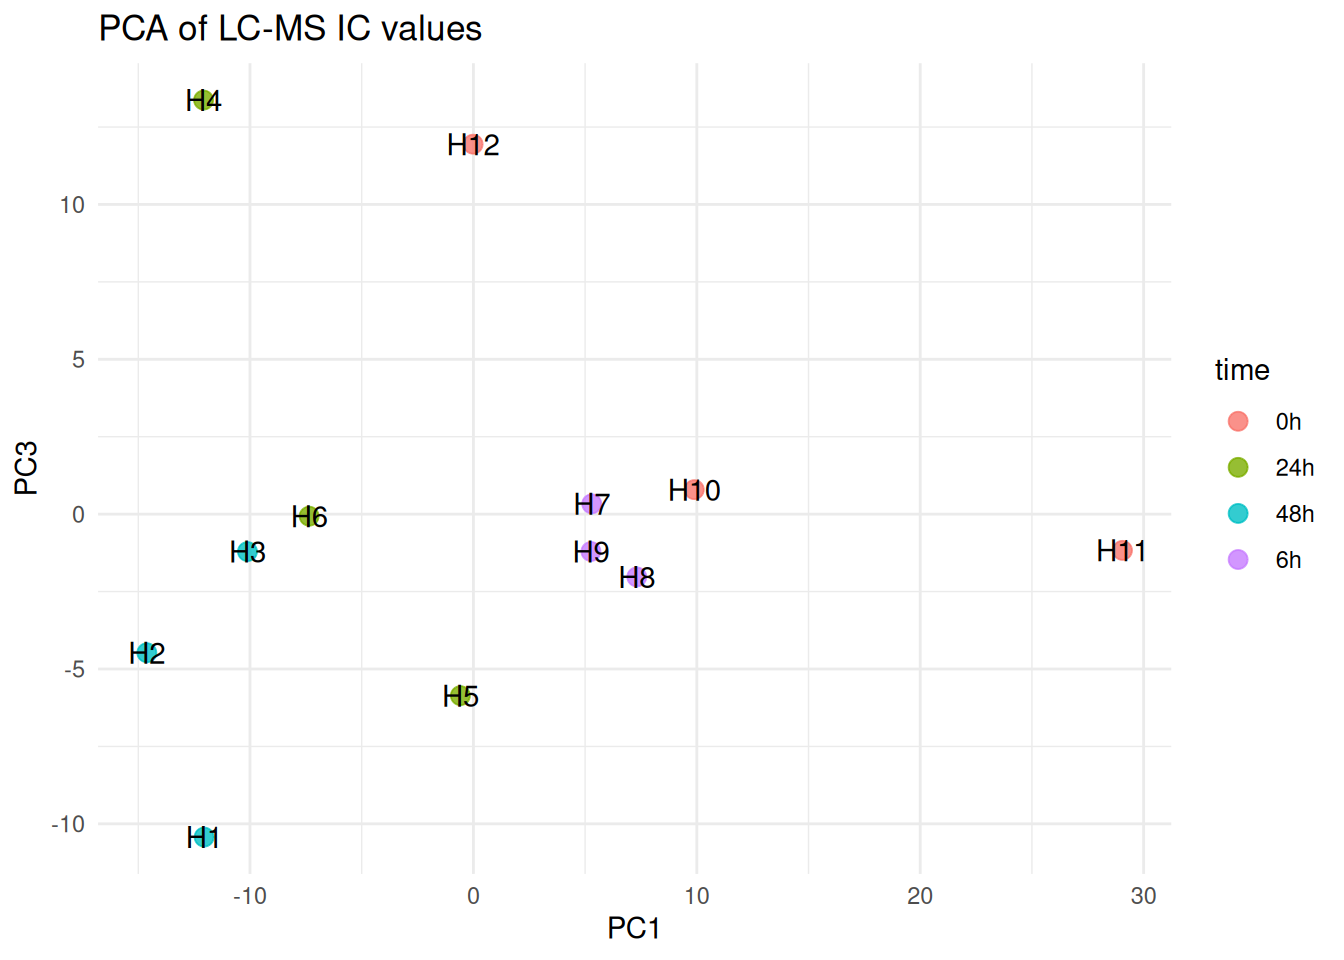
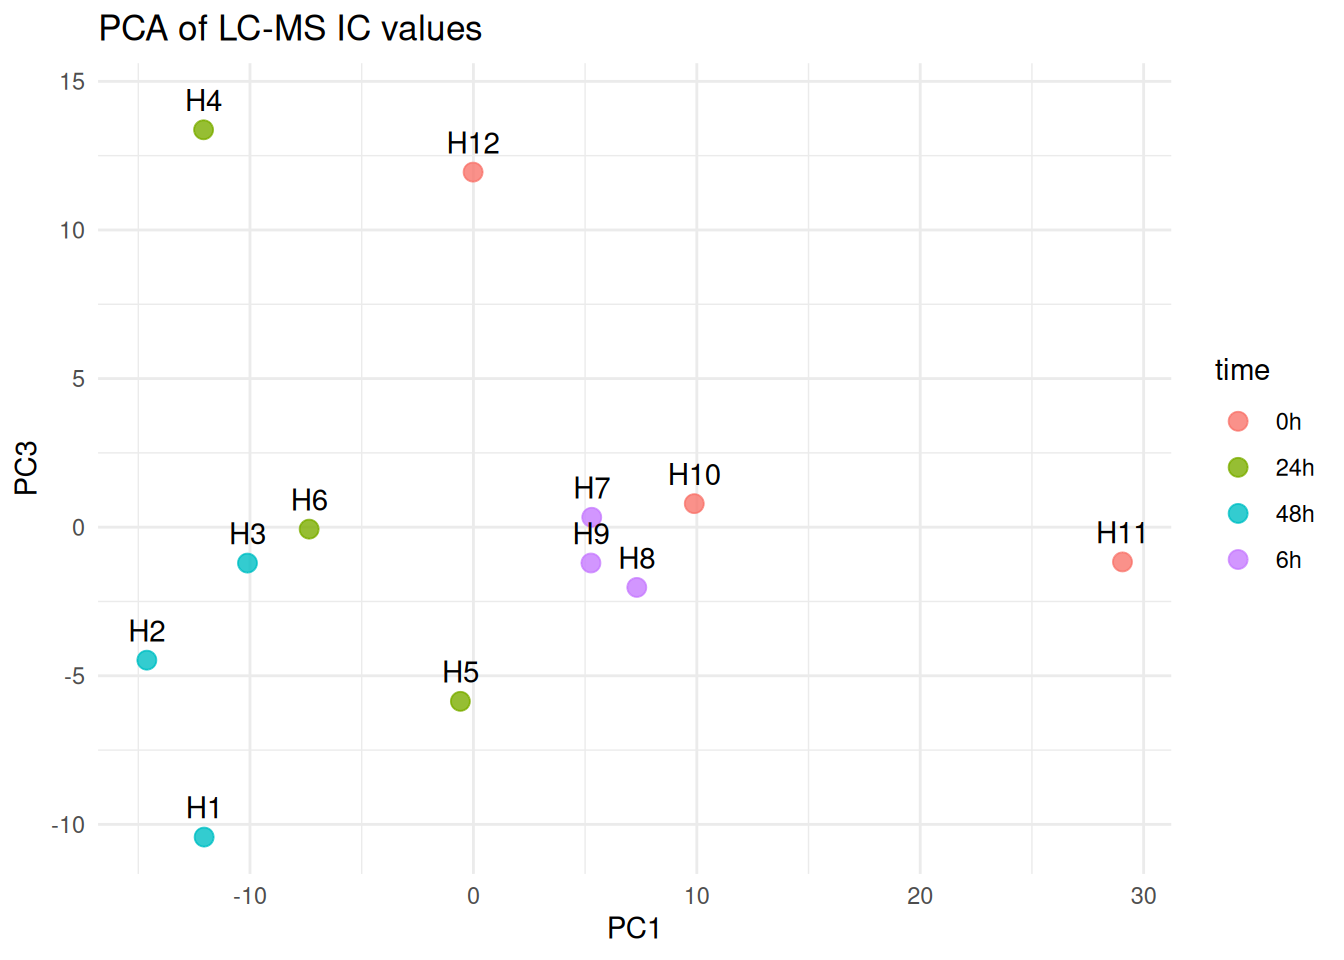
Built site for gh-pages

diff --git a/projects/Class_presentation.html b/projects/Class_presentation.html
@@ -264,10 +264,11 @@ pre > code.sourceCode > span > a:first-child::before { text-decoration: underlin
 <span id="cb14-8"><a href="#cb14-8" aria-hidden="true" tabindex="-1"></a>    <span class="at">names_from =</span> compound,</span>
 <span id="cb14-9"><a href="#cb14-9" aria-hidden="true" tabindex="-1"></a>    <span class="at">values_from =</span> IC)</span>
 <span id="cb14-10"><a href="#cb14-10" aria-hidden="true" tabindex="-1"></a></span>
-<span id="cb14-11"><a href="#cb14-11" aria-hidden="true" tabindex="-1"></a>pca_recipe <span class="ot">&lt;-</span> <span class="fu">recipe</span>(<span class="sc">~</span> ., <span class="at">data =</span> plaDataWide) <span class="sc">%&gt;%</span></span>
-<span id="cb14-12"><a href="#cb14-12" aria-hidden="true" tabindex="-1"></a>  <span class="fu">update_role</span>(sampleId, organism, time, <span class="at">new_role =</span> <span class="st">"id"</span>)</span>
-<span id="cb14-13"><a href="#cb14-13" aria-hidden="true" tabindex="-1"></a></span>
-<span id="cb14-14"><a href="#cb14-14" aria-hidden="true" tabindex="-1"></a><span class="fu">summary</span>(pca_recipe)</span></code><button title="Copy to Clipboard" class="code-copy-button"><i class="bi"></i></button></pre></div>
+<span id="cb14-11"><a href="#cb14-11" aria-hidden="true" tabindex="-1"></a><span class="co"># generate reciepe</span></span>
+<span id="cb14-12"><a href="#cb14-12" aria-hidden="true" tabindex="-1"></a>pca_recipe <span class="ot">&lt;-</span> <span class="fu">recipe</span>(<span class="sc">~</span> ., <span class="at">data =</span> plaDataWide) <span class="sc">%&gt;%</span></span>
+<span id="cb14-13"><a href="#cb14-13" aria-hidden="true" tabindex="-1"></a>  <span class="fu">update_role</span>(sampleId, organism, time, <span class="at">new_role =</span> <span class="st">"id"</span>)</span>
+<span id="cb14-14"><a href="#cb14-14" aria-hidden="true" tabindex="-1"></a></span>
+<span id="cb14-15"><a href="#cb14-15" aria-hidden="true" tabindex="-1"></a><span class="fu">summary</span>(pca_recipe)</span></code><button title="Copy to Clipboard" class="code-copy-button"><i class="bi"></i></button></pre></div>
 <div class="cell-output cell-output-stdout">
 <pre><code># A tibble: 500 × 4
    variable                type      role      source  
@@ -325,7 +326,7 @@ id:          3</code></pre>
 <div class="cell-output cell-output-stderr">
 <pre><code>• PCA extraction with: all_predictors()</code></pre>
 </div>
-<div class="sourceCode cell-code" id="cb28"><pre class="sourceCode r code-with-copy"><code class="sourceCode r"><span id="cb28-1"><a href="#cb28-1" aria-hidden="true" tabindex="-1"></a><span class="co"># 4. recipe 적용</span></span>
+<div class="sourceCode cell-code" id="cb28"><pre class="sourceCode r code-with-copy"><code class="sourceCode r"><span id="cb28-1"><a href="#cb28-1" aria-hidden="true" tabindex="-1"></a><span class="co"># apply recipe</span></span>
 <span id="cb28-2"><a href="#cb28-2" aria-hidden="true" tabindex="-1"></a>pca_prepped <span class="ot">&lt;-</span> <span class="fu">prep</span>(pca_recipe)</span></code><button title="Copy to Clipboard" class="code-copy-button"><i class="bi"></i></button></pre></div>
 <div class="cell-output cell-output-stderr">
 <pre><code>Warning: !  The following columns have zero variance so scaling cannot be used:
@@ -415,7 +416,7 @@ id:          3</code></pre>
 </div>
 <div class="sourceCode cell-code" id="cb48"><pre class="sourceCode r code-with-copy"><code class="sourceCode r"><span id="cb48-1"><a href="#cb48-1" aria-hidden="true" tabindex="-1"></a><span class="fu">ggplot</span>(pca_baked, <span class="fu">aes</span>(<span class="at">x =</span> PC1, <span class="at">y =</span> PC3, <span class="at">color =</span> time, <span class="at">label =</span> sampleId)) <span class="sc">+</span></span>
 <span id="cb48-2"><a href="#cb48-2" aria-hidden="true" tabindex="-1"></a>  <span class="fu">geom_point</span>(<span class="at">size =</span> <span class="dv">3</span>, <span class="at">alpha =</span> <span class="fl">0.8</span>) <span class="sc">+</span></span>
-<span id="cb48-3"><a href="#cb48-3" aria-hidden="true" tabindex="-1"></a>  <span class="fu">geom_text</span>(<span class="at">check_overlap =</span> <span class="cn">TRUE</span>, <span class="at">color =</span> <span class="st">"black"</span>) <span class="sc">+</span></span>
+<span id="cb48-3"><a href="#cb48-3" aria-hidden="true" tabindex="-1"></a>  <span class="fu">geom_text</span>(<span class="at">check_overlap =</span> <span class="cn">TRUE</span>, <span class="at">color =</span> <span class="st">"black"</span>, <span class="at">nudge_y =</span> <span class="dv">1</span>) <span class="sc">+</span></span>
 <span id="cb48-4"><a href="#cb48-4" aria-hidden="true" tabindex="-1"></a>  <span class="fu">theme_minimal</span>() <span class="sc">+</span></span>
 <span id="cb48-5"><a href="#cb48-5" aria-hidden="true" tabindex="-1"></a>  <span class="fu">labs</span>(<span class="at">title =</span> <span class="st">"PCA of LC-MS IC values"</span>, <span class="at">x =</span> <span class="st">"PC1"</span>, <span class="at">y =</span> <span class="st">"PC3"</span>)</span></code><button title="Copy to Clipboard" class="code-copy-button"><i class="bi"></i></button></pre></div>
 <div class="cell-output-display">
@@ -435,7 +436,7 @@ id:          3</code></pre>
 <span id="cb49-3"><a href="#cb49-3" aria-hidden="true" tabindex="-1"></a>    broom<span class="sc">::</span><span class="fu">tidy</span>()</span>
 <span id="cb49-4"><a href="#cb49-4" aria-hidden="true" tabindex="-1"></a>}, <span class="at">otherwise =</span> <span class="cn">NULL</span>)</span>
 <span id="cb49-5"><a href="#cb49-5" aria-hidden="true" tabindex="-1"></a></span>
-<span id="cb49-6"><a href="#cb49-6" aria-hidden="true" tabindex="-1"></a>planStatsTime <span class="ot">&lt;-</span> plaDataLong <span class="sc">%&gt;%</span> </span>
+<span id="cb49-6"><a href="#cb49-6" aria-hidden="true" tabindex="-1"></a>planStats <span class="ot">&lt;-</span> plaDataLong <span class="sc">%&gt;%</span> </span>
 <span id="cb49-7"><a href="#cb49-7" aria-hidden="true" tabindex="-1"></a>  <span class="fu">nest</span>(<span class="at">statData =</span> <span class="sc">-</span>compound) <span class="sc">%&gt;%</span> </span>
 <span id="cb49-8"><a href="#cb49-8" aria-hidden="true" tabindex="-1"></a>  <span class="fu">mutate</span>(<span class="at">df =</span> <span class="fu">map</span>(statData, regFxn)) <span class="sc">%&gt;%</span> </span>
 <span id="cb49-9"><a href="#cb49-9" aria-hidden="true" tabindex="-1"></a>  <span class="fu">unnest_legacy</span>(df) <span class="sc">%&gt;%</span> </span>
@@ -449,12 +450,12 @@ Caused by warning in `summary.lm()`:
 ! essentially perfect fit: summary may be unreliable
 ℹ Run `dplyr::last_dplyr_warnings()` to see the 27 remaining warnings.</code></pre>
 </div>
-<div class="sourceCode cell-code" id="cb51"><pre class="sourceCode r code-with-copy"><code class="sourceCode r"><span id="cb51-1"><a href="#cb51-1" aria-hidden="true" tabindex="-1"></a>planStatsTime <span class="sc">%&gt;%</span> </span>
+<div class="sourceCode cell-code" id="cb51"><pre class="sourceCode r code-with-copy"><code class="sourceCode r"><span id="cb51-1"><a href="#cb51-1" aria-hidden="true" tabindex="-1"></a>planStats <span class="sc">%&gt;%</span> </span>
 <span id="cb51-2"><a href="#cb51-2" aria-hidden="true" tabindex="-1"></a>  <span class="fu">mutate</span>(<span class="at">term =</span> <span class="fu">factor</span>(term,</span>
 <span id="cb51-3"><a href="#cb51-3" aria-hidden="true" tabindex="-1"></a>                       <span class="at">levels =</span> <span class="fu">c</span>(<span class="st">"time6h"</span>, </span>
 <span id="cb51-4"><a href="#cb51-4" aria-hidden="true" tabindex="-1"></a>                                  <span class="st">"time24h"</span>, </span>
 <span id="cb51-5"><a href="#cb51-5" aria-hidden="true" tabindex="-1"></a>                                  <span class="st">"time48h"</span>))) <span class="sc">%&gt;%</span> </span>
-<span id="cb51-6"><a href="#cb51-6" aria-hidden="true" tabindex="-1"></a>  <span class="fu">ggplot</span>(<span class="fu">aes</span>(<span class="at">x =</span> estimate, <span class="at">y =</span> <span class="sc">-</span><span class="fu">log10</span>(p.adj))) <span class="sc">+</span></span>
+<span id="cb51-6"><a href="#cb51-6" aria-hidden="true" tabindex="-1"></a>  <span class="fu">ggplot</span>(<span class="fu">aes</span>(<span class="at">x =</span> estimate, <span class="at">y =</span> <span class="sc">-</span><span class="fu">log10</span>(p.adj), <span class="at">label =</span> compound)) <span class="sc">+</span></span>
 <span id="cb51-7"><a href="#cb51-7" aria-hidden="true" tabindex="-1"></a>  <span class="fu">geom_point</span>() <span class="sc">+</span></span>
 <span id="cb51-8"><a href="#cb51-8" aria-hidden="true" tabindex="-1"></a>  <span class="fu">facet_wrap</span>(<span class="sc">~</span>term) <span class="sc">+</span></span>
 <span id="cb51-9"><a href="#cb51-9" aria-hidden="true" tabindex="-1"></a>  <span class="fu">geom_hline</span>(<span class="at">yintercept =</span> <span class="fl">1.3</span>)</span></code><button title="Copy to Clipboard" class="code-copy-button"><i class="bi"></i></button></pre></div>
@@ -462,6 +463,60 @@ Caused by warning in `summary.lm()`:
 <div>
 <figure class="figure">
 <p><img src="Class_presentation_files/figure-html/unnamed-chunk-4-1.png" class="img-fluid figure-img" width="672"></p>
+</figure>
+</div>
+</div>
+</div>
+<div class="cell">
+<div class="sourceCode cell-code" id="cb52"><pre class="sourceCode r code-with-copy"><code class="sourceCode r"><span id="cb52-1"><a href="#cb52-1" aria-hidden="true" tabindex="-1"></a>planStats <span class="sc">%&gt;%</span> </span>
+<span id="cb52-2"><a href="#cb52-2" aria-hidden="true" tabindex="-1"></a>  <span class="fu">group_by</span>(compound) <span class="sc">%&gt;%</span> </span>
+<span id="cb52-3"><a href="#cb52-3" aria-hidden="true" tabindex="-1"></a>  <span class="fu">arrange</span>(p.adj)</span></code><button title="Copy to Clipboard" class="code-copy-button"><i class="bi"></i></button></pre></div>
+<div class="cell-output cell-output-stdout">
+<pre><code># A tibble: 1,491 × 7
+# Groups:   compound [497]
+   compound                 term    estimate std.error statistic p.value   p.adj
+   &lt;chr&gt;                    &lt;chr&gt;      &lt;dbl&gt;     &lt;dbl&gt;     &lt;dbl&gt;   &lt;dbl&gt;   &lt;dbl&gt;
+ 1 Guaiacol sulfate         time48h     5.46     0.278     19.7  4.66e-8 6.95e-5
+ 2 Guaiacol sulfate         time24h     4.25     0.278     15.3  3.29e-7 2.45e-4
+ 3 Tyrosol 4-sulfate        time48h     5.24     0.426     12.3  1.78e-6 8.86e-4
+ 4 Tyrosol 4-sulfate        time24h     4.03     0.426      9.46 1.28e-5 4.78e-3
+ 5 dGDP                     time48h    -2.94     0.339     -8.66 2.46e-5 5.18e-3
+ 6 ADP                      time48h    -2.94     0.339     -8.66 2.46e-5 5.18e-3
+ 7 Hydroxymethylphosphonate time48h    -1.35     0.159     -8.51 2.78e-5 5.18e-3
+ 8 Acetylphosphate          time48h    -1.75     0.205     -8.54 2.71e-5 5.18e-3
+ 9 Sedoheptulose            time48h     1.19     0.149      8.04 4.23e-5 6.30e-3
+10 Phosphoglycolic acid     time48h    -1.90     0.234     -8.12 3.93e-5 6.30e-3
+# ℹ 1,481 more rows</code></pre>
+</div>
+<div class="sourceCode cell-code" id="cb54"><pre class="sourceCode r code-with-copy"><code class="sourceCode r"><span id="cb54-1"><a href="#cb54-1" aria-hidden="true" tabindex="-1"></a><span class="fu">head</span>(planStats)</span></code><button title="Copy to Clipboard" class="code-copy-button"><i class="bi"></i></button></pre></div>
+<div class="cell-output cell-output-stdout">
+<pre><code># A tibble: 6 × 7
+  compound          term    estimate std.error statistic p.value p.adj
+  &lt;chr&gt;             &lt;chr&gt;      &lt;dbl&gt;     &lt;dbl&gt;     &lt;dbl&gt;   &lt;dbl&gt; &lt;dbl&gt;
+1 Lys-Gly           time24h   0.238      0.476     0.499   0.631 0.921
+2 Lys-Gly           time48h  -0.145      0.476    -0.305   0.768 0.985
+3 Lys-Gly           time6h   -0.0587     0.476    -0.123   0.905 1    
+4 Indolelactic acid time24h   0.300      0.354     0.848   0.421 0.792
+5 Indolelactic acid time48h   0.166      0.354     0.469   0.652 0.936
+6 Indolelactic acid time6h   -0.203      0.354    -0.575   0.581 0.900</code></pre>
+</div>
+<div class="sourceCode cell-code" id="cb56"><pre class="sourceCode r code-with-copy"><code class="sourceCode r"><span id="cb56-1"><a href="#cb56-1" aria-hidden="true" tabindex="-1"></a>plaDataLong <span class="sc">%&gt;%</span> </span>
+<span id="cb56-2"><a href="#cb56-2" aria-hidden="true" tabindex="-1"></a>  <span class="fu">mutate</span>(<span class="at">time =</span> <span class="fu">factor</span>(<span class="at">levels =</span> <span class="fu">c</span>(<span class="st">"0h"</span>,<span class="st">"6h"</span>,<span class="st">"24h"</span>,<span class="st">"48h"</span>), time)) <span class="sc">%&gt;%</span> </span>
+<span id="cb56-3"><a href="#cb56-3" aria-hidden="true" tabindex="-1"></a>  <span class="fu">filter</span>(compound <span class="sc">==</span> <span class="st">"Guaiacol sulfate"</span>) <span class="sc">%&gt;%</span> </span>
+<span id="cb56-4"><a href="#cb56-4" aria-hidden="true" tabindex="-1"></a>  <span class="fu">ggplot</span>(<span class="fu">aes</span>(<span class="at">x =</span> compound, <span class="at">y =</span> IC, <span class="at">fill =</span> time)) <span class="sc">+</span></span>
+<span id="cb56-5"><a href="#cb56-5" aria-hidden="true" tabindex="-1"></a>  <span class="fu">geom_bar</span>(<span class="at">stat =</span> <span class="st">"summary"</span>, <span class="at">fun =</span> mean,</span>
+<span id="cb56-6"><a href="#cb56-6" aria-hidden="true" tabindex="-1"></a>           <span class="at">position =</span> <span class="fu">position_dodge</span>(), <span class="at">color =</span> <span class="st">"black"</span>) <span class="sc">+</span></span>
+<span id="cb56-7"><a href="#cb56-7" aria-hidden="true" tabindex="-1"></a>  <span class="fu">geom_point</span>(<span class="at">position =</span> <span class="fu">position_dodge</span>(<span class="at">width =</span> <span class="dv">1</span>)) <span class="sc">+</span> </span>
+<span id="cb56-8"><a href="#cb56-8" aria-hidden="true" tabindex="-1"></a>  <span class="fu">facet_wrap</span>(<span class="sc">~</span>organism, <span class="at">scales =</span> <span class="st">"free"</span>) <span class="sc">+</span></span>
+<span id="cb56-9"><a href="#cb56-9" aria-hidden="true" tabindex="-1"></a>  <span class="fu">theme</span>(<span class="at">axis.text.x =</span> <span class="fu">element_text</span>(<span class="at">angle =</span> <span class="dv">45</span>, </span>
+<span id="cb56-10"><a href="#cb56-10" aria-hidden="true" tabindex="-1"></a>                                   <span class="at">vjust =</span> <span class="dv">1</span>, </span>
+<span id="cb56-11"><a href="#cb56-11" aria-hidden="true" tabindex="-1"></a>                                   <span class="at">hjust=</span><span class="dv">1</span>),</span>
+<span id="cb56-12"><a href="#cb56-12" aria-hidden="true" tabindex="-1"></a>        <span class="at">axis.text =</span> <span class="fu">element_text</span>(<span class="at">color =</span> <span class="st">"black"</span>, <span class="at">size =</span> <span class="dv">14</span>)) <span class="sc">+</span></span>
+<span id="cb56-13"><a href="#cb56-13" aria-hidden="true" tabindex="-1"></a>  <span class="fu">labs</span>(<span class="at">title =</span> <span class="st">"Most changed compound during regenration"</span>) </span></code><button title="Copy to Clipboard" class="code-copy-button"><i class="bi"></i></button></pre></div>
+<div class="cell-output-display">
+<div>
+<figure class="figure">
+<p><img src="Class_presentation_files/figure-html/unnamed-chunk-5-1.png" class="img-fluid figure-img" width="672"></p>
 </figure>
 </div>
 </div>

diff --git a/projects.html b/projects.html
@@ -224,7 +224,7 @@ Author
 </thead>
 <tbody class="list">
 
-<tr data-index="0" data-listing-date-sort="1753315200000" data-listing-file-modified-sort="1753333131952" data-listing-date-modified-sort="NaN" data-listing-reading-time-sort="3" data-listing-word-count-sort="425" data-listing-title-sort="LC-MS data" data-listing-filename-sort="Class_presentation.qmd">
+<tr data-index="0" data-listing-date-sort="1753315200000" data-listing-file-modified-sort="1753335251480" data-listing-date-modified-sort="NaN" data-listing-reading-time-sort="4" data-listing-word-count-sort="612" data-listing-title-sort="LC-MS data" data-listing-filename-sort="Class_presentation.qmd">
 <td>
 <span class="listing-date">07-24-2025</span>
 </td>
@@ -237,7 +237,7 @@ Author
 
 </tr>
 
-<tr data-index="1" data-listing-file-modified-sort="1753333131956" data-listing-reading-time-sort="1" data-listing-word-count-sort="1" data-listing-title-sort="number 2" data-listing-filename-sort="number 2.qmd">
+<tr data-index="1" data-listing-file-modified-sort="1753335251484" data-listing-reading-time-sort="1" data-listing-word-count-sort="1" data-listing-title-sort="number 2" data-listing-filename-sort="number 2.qmd">
 <td>
 <span class="listing-date">&nbsp;</span>
 </td>
